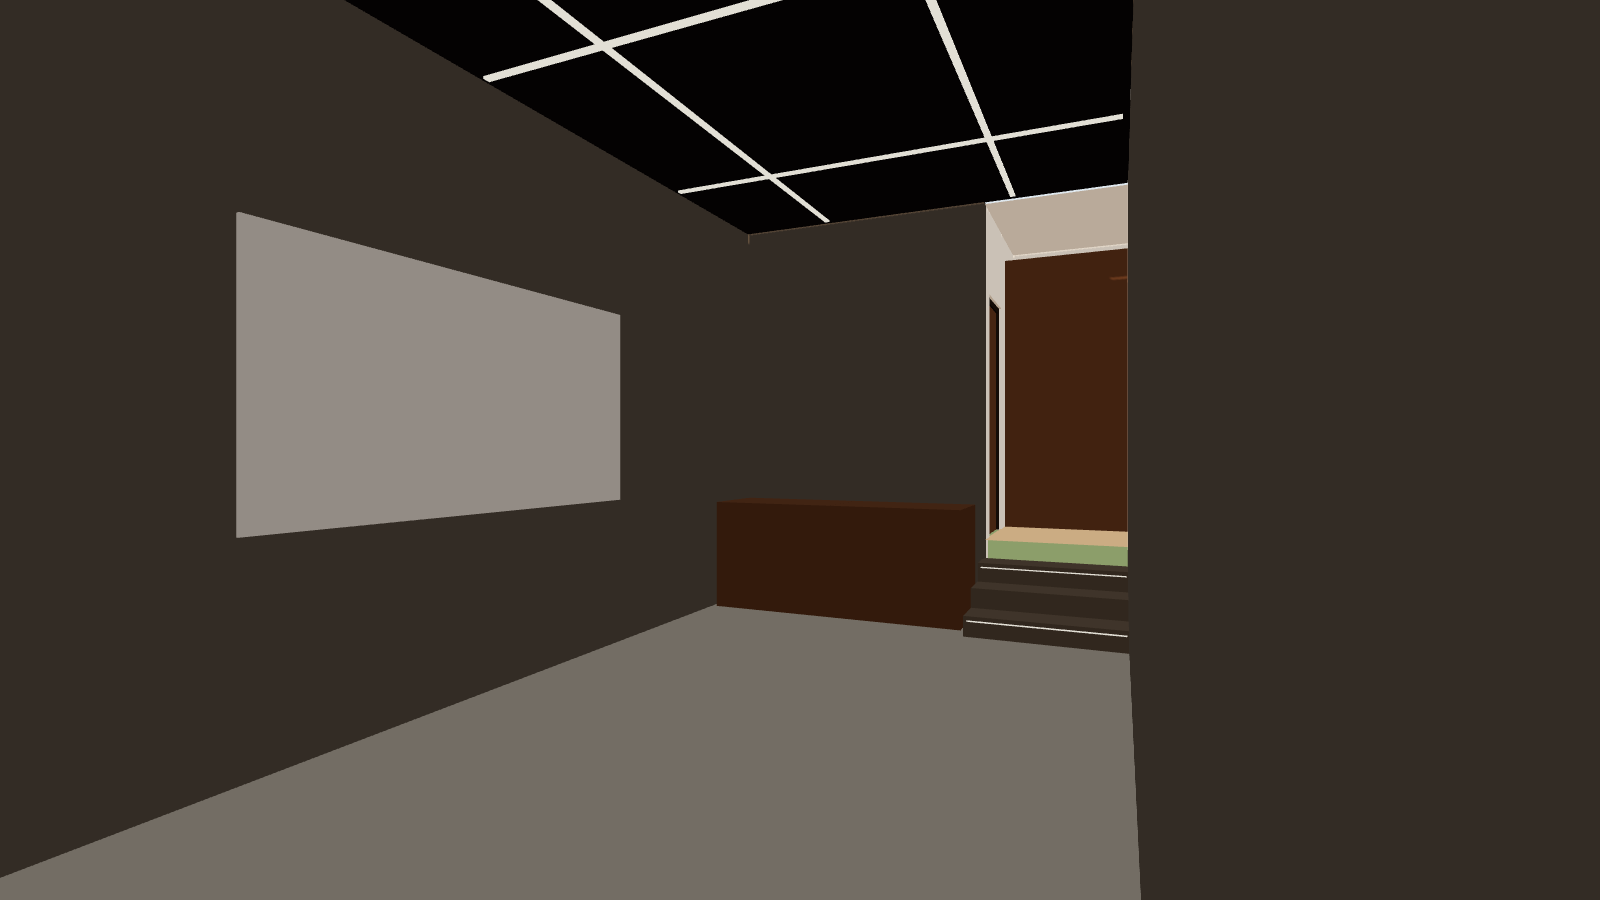
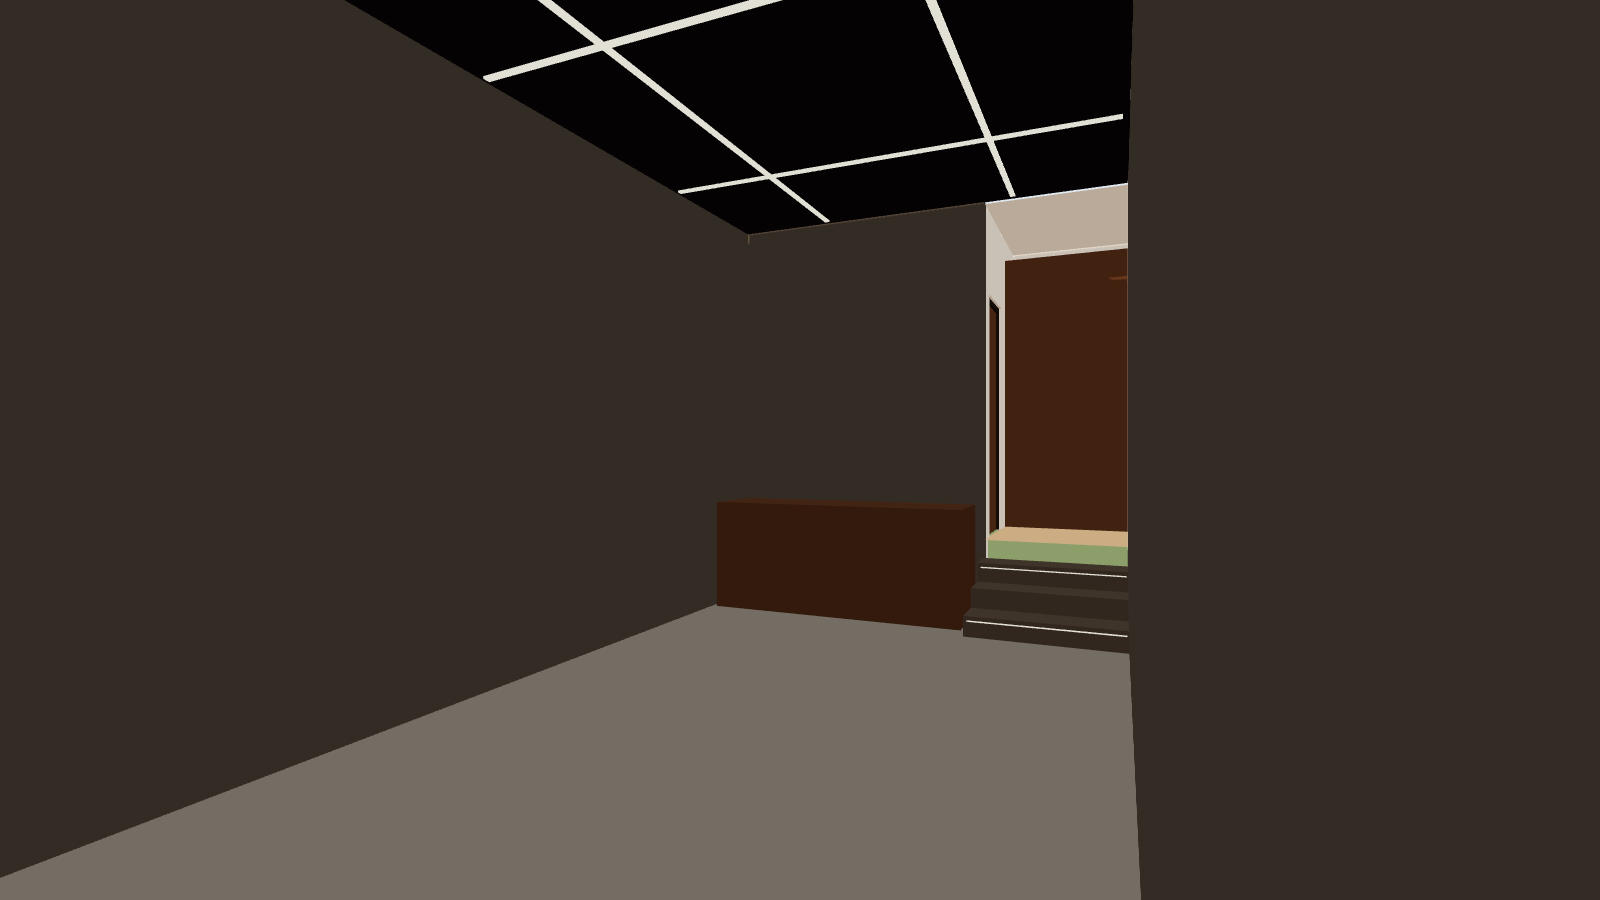
Garage: no poster; add consistency gate
Claude-Session: https://claude.ai/code/session_01ETmbUPpvTDduvuaab54EVi

Changed region(s): [[0.125, 0.2178, 0.4062, 0.5911]]

diff --git a/luxury-render/plans/osnova-prizemlja/design_layer.py b/luxury-render/plans/osnova-prizemlja/design_layer.py
@@ -128,7 +128,6 @@ for x in (110, 270):
     D.append(B(f"D_g_led_x{x}", "led_line", x - 2, 215, x + 2, 805, 278, 279.5, kind="light", emissive=True))
 for y in (330, 520, 710):
     D.append(B(f"D_g_led_y{y}", "led_line", 30, y - 2, 350, y + 2, 278, 279.5, kind="light", emissive=True))
-D.append(B("D_g_art", "photo_car_bw", 24, 400, 27, 640, 40, 170))
 for i, (y, z) in enumerate([(229, -18), (258, -33), (288, -48)]):   # under each nosing
     D.append(B(f"D_g_step_led{i}", "led_line", 247, y - 1, 353, y, z - 1, z, kind="light", emissive=True))
 
